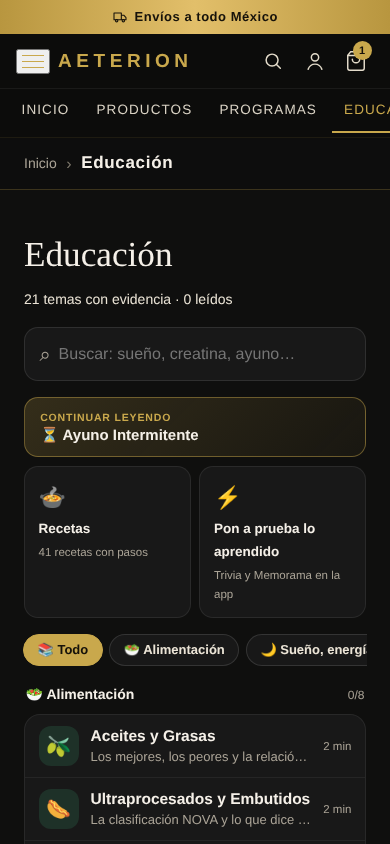
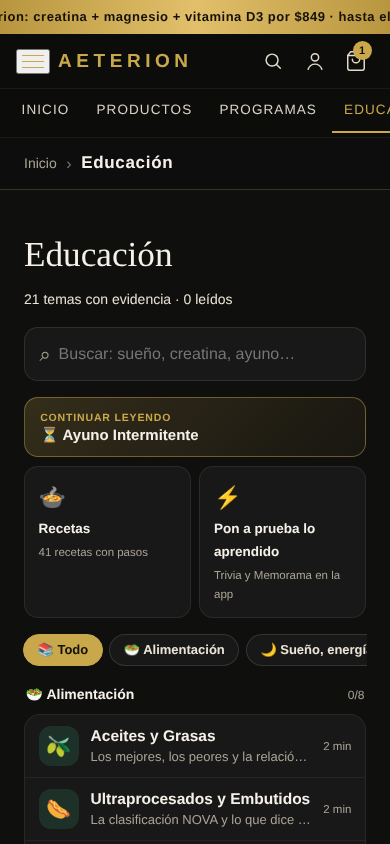
Promoción Paquete Aeterion: creatina + magnesio + vitamina D3 por $849 hasta el 12 de diciembre
Claude-Session: https://claude.ai/code/session_014hQcQ5zCXChoL5Najh2S7U

diff --git a/promo.js b/promo.js
@@ -1,0 +1,130 @@
+/* ============================================================
+   PROMOCIÓN "PAQUETE AETERION" — creatina + magnesio + vitamina D3 a precio especial.
+   La configuración viene de ajustes_publicos.promo_paquete (window._promoPaq); el servidor
+   (calcular_carrito) es quien cobra el descuento. Aquí solo se muestra y se arma el carrito.
+   Se apaga sola al pasar la fecha de fin.
+============================================================ */
+(function () {
+'use strict';
+const DEF = { activa: true, nombre: 'Paquete Aeterion', precio: 849, fin: '2026-12-12', ids: ['creatina', 'magnesio', 'vitd'] };
+const $ = (id) => document.getElementById(id);
+const fmt = (n) => '$' + Number(n || 0).toLocaleString('es-MX');
+
+function cfg() {
+  const c = (window._promoPaq && typeof window._promoPaq === 'object') ? Object.assign({}, DEF, window._promoPaq) : (window._promoPaqCargado ? null : DEF);
+  if (!c || !c.activa) return null;
+  const fin = Date.parse(String(c.fin) + 'T23:59:59-06:00');
+  if (!(fin > Date.now())) return null;
+  if (typeof PRODUCTOS === 'undefined' || !c.ids.every((id) => PRODUCTOS[id])) return null;
+  if (typeof _catalogo !== 'undefined' && c.ids.some((id) => _catalogo[id] && (_catalogo[id].activo === false || _catalogo[id].disponible === false))) return null;
+  return c;
+}
+function base(c) { return c.ids.reduce((s, id) => s + Number(PRODUCTOS[id].precio || 0), 0); }
+function ahorro(c) { return Math.max(0, base(c) - Number(c.precio)); }
+function juegos(c) {
+  if (typeof carrito === 'undefined') return 0;
+  return Math.min(...c.ids.map((id) => (carrito[id] ? carrito[id].cantidad : 0)));
+}
+// Descuento de la promo para el carrito actual (lo usa actualizarTotales)
+window.aetPromoPaqDesc = function () { const c = cfg(); return c ? juegos(c) * ahorro(c) : 0; };
+window.aetPromoPaqNombre = function () { const c = cfg(); return c ? c.nombre : ''; };
+
+window.aetComprarPaquete = function () {
+  const c = cfg(); if (!c) return;
+  const falta = Math.max(1, juegos(c) + 1);
+  c.ids.forEach((id) => {
+    if (!carrito[id]) carrito[id] = { producto: PRODUCTOS[id], cantidad: 0 };
+    carrito[id].cantidad = Math.max(carrito[id].cantidad, falta);
+  });
+  if (typeof actualizarCarritoUI === 'function') actualizarCarritoUI();
+  try { aetEvento && aetEvento('promo_paquete'); } catch (e) {}
+  if (typeof abrirCarrito === 'function') abrirCarrito();
+};
+
+function fechaFin(c) {
+  try { return new Date(String(c.fin) + 'T12:00:00').toLocaleDateString('es-MX', { day: 'numeric', month: 'long' }); } catch (e) { return c.fin; }
+}
+function tarjeta(c, clase) {
+  const b = base(c), a = ahorro(c), pct = b ? Math.round(a / b * 100) : 0;
+  return `<div class="pq ${clase || ''}" data-promo-paquete>
+    <div class="pq-img"><img src="img/hero-productos.jpg" alt="Creatina, magnesio y vitamina D3 Aeterion" loading="lazy" width="1200" height="914">${pct ? `<span class="pq-sello">−${pct}%</span>` : ''}</div>
+    <div class="pq-info">
+      <span class="pq-eye">⏳ Promoción hasta el ${fechaFin(c)}</span>
+      <h3>${c.nombre}</h3>
+      <p>Creatina 450 g + Magnesio glicinato 100 cápsulas + Vitamina D3 liposomal 50 ml. Los tres protocolos juntos.</p>
+      <div class="pq-precio"><b>${fmt(c.precio)}</b><s>${fmt(b)}</s>${a ? `<em>Ahorras ${fmt(a)}</em>` : ''}</div>
+      <button type="button" class="btn pq-btn" onclick="aetComprarPaquete()">Comprar paquete · ${fmt(c.precio)}</button>
+      <small>Precio por paquete. El envío se calcula con tu código postal.</small>
+    </div></div>`;
+}
+
+const css = document.createElement('style');
+css.textContent = `
+.pq{display:grid;grid-template-columns:minmax(0,1fr) minmax(0,1.1fr);gap:clamp(1rem,3vw,2.2rem);align-items:center;padding:clamp(1rem,2.5vw,1.6rem);border-radius:20px;border:1px solid rgba(201,168,76,.65);background:radial-gradient(circle at 12% 20%,rgba(201,168,76,.22),transparent 55%),linear-gradient(135deg,#221d10,#141412 70%);box-shadow:0 20px 50px rgba(0,0,0,.45);margin:0 0 clamp(2rem,4vw,3rem);color:#e9e2d2}
+.pq-img{position:relative;border-radius:14px;overflow:hidden;border:1px solid rgba(201,168,76,.3)}
+.pq-img img{display:block;width:100%;height:auto;max-height:340px;object-fit:cover}
+.pq-sello{position:absolute;top:12px;left:12px;background:#c9a84c;color:#16120a;font:700 15px var(--font-ui,sans-serif);padding:.35rem .75rem;border-radius:20px;letter-spacing:.03em}
+.pq-eye{display:inline-block;font:600 12.5px var(--font-ui,sans-serif);letter-spacing:.12em;text-transform:uppercase;color:#16120a;background:#e2bf6a;border-radius:20px;padding:.3rem .8rem}
+.pq h3{font-family:var(--font-display,serif);font-weight:400;font-size:clamp(2rem,4.4vw,3rem);line-height:1.05;color:#fff;margin:.7rem 0 .5rem}
+.pq p{color:#d4ccbc;font-size:15.5px;line-height:1.55;margin:0 0 1rem}
+.pq-precio{display:flex;align-items:baseline;flex-wrap:wrap;gap:.4rem .9rem;margin-bottom:1rem}
+.pq-precio b{font:700 clamp(2.2rem,5vw,3rem)/1 var(--font-ui,sans-serif);color:#e2bf6a}
+.pq-precio s{color:#8f887a;font-size:18px}
+.pq-precio em{font-style:normal;color:#2ecc71;font:600 15px var(--font-ui,sans-serif)}
+.pq-btn{display:inline-block;width:100%;max-width:380px;text-align:center;font-size:15px!important;padding:1rem 1.2rem!important;cursor:pointer}
+.pq small{display:block;margin-top:.6rem;color:#8f887a;font-size:12.5px}
+@media (max-width:760px){.pq{grid-template-columns:1fr}.pq-img img{max-height:220px}.pq-btn{max-width:none}}
+body.modo-app .pq{margin:0 0 18px;padding:14px}
+body.modo-app .pq h3{font-size:30px}
+.pq-pista{margin:8px 0 2px;padding:10px 12px;border-radius:12px;border:1px dashed rgba(201,168,76,.6);background:rgba(201,168,76,.08);font-size:13px;color:#e2d8c2;line-height:1.4}
+.pq-pista button{background:none;border:0;color:#e2bf6a;font-weight:700;text-decoration:underline;cursor:pointer;padding:0;font-size:13px}
+`;
+document.head.appendChild(css);
+
+function pintar() {
+  const c = cfg();
+  document.querySelectorAll('[data-promo-paquete]').forEach((e) => e.remove());
+  const an = document.querySelector('.wb-anuncio');
+  if (an) {
+    if (!an.dataset.orig) an.dataset.orig = an.innerHTML;
+    an.innerHTML = c ? `<span>🔥 ${c.nombre}: creatina + magnesio + vitamina D3 por ${fmt(c.precio)} · hasta el ${fechaFin(c)}</span>` : an.dataset.orig;
+    an.style.cursor = c ? 'pointer' : '';
+    an.onclick = c ? () => { location.hash = '#/productos'; } : null;
+  }
+  if (!c) { pista(); return; }
+  // Productos (web) y Tienda (app): arriba de la lista de productos
+  const prod = $('productos');
+  if (prod) {
+    const cont = prod.querySelector('.contenedor') || prod;
+    const ancla = cont.querySelector('.productos-grid, .producto-card') ;
+    const div = document.createElement('div'); div.innerHTML = tarjeta(c, 'pq-prod');
+    const nodo = div.firstElementChild;
+    if (ancla && ancla.parentNode) ancla.parentNode.insertBefore(nodo, ancla); else cont.insertBefore(nodo, cont.firstChild);
+  }
+  // Inicio de la web: justo debajo de los sellos de confianza
+  const conf = document.querySelector('#webInicio .wb-confianza');
+  if (conf) conf.insertAdjacentHTML('afterend', tarjeta(c, 'pq-ini'));
+  pista();
+}
+// Pista en el carrito: si faltan productos para el paquete
+function pista() {
+  const pie = $('carrito-footer'); if (!pie) return;
+  let p = $('pqPista');
+  const c = cfg();
+  const tiene = c && typeof carrito !== 'undefined' ? c.ids.filter((id) => carrito[id]).length : 0;
+  const mostrar = c && tiene > 0 && juegos(c) === 0;
+  if (!mostrar) { if (p) p.remove(); return; }
+  if (!p) { p = document.createElement('div'); p.id = 'pqPista'; p.className = 'pq-pista'; pie.insertBefore(p, pie.firstChild); }
+  p.innerHTML = `🔥 Agrega los 3 productos y paga solo <b>${fmt(c.precio)}</b> (ahorras ${fmt(ahorro(c))}). <button type="button" onclick="aetComprarPaquete()">Completar paquete</button>`;
+}
+window.aetPromoPaqPintar = pintar;
+window.aetPromoPaqPista = pista;
+
+// Repintar cuando cambian precios del catálogo
+if (typeof window.aetPintarCatalogo === 'function') {
+  const orig = window.aetPintarCatalogo;
+  window.aetPintarCatalogo = function () { const r = orig.apply(this, arguments); try { pintar(); } catch (e) {} return r; };
+}
+function iniciar() { try { pintar(); } catch (e) { console.warn('promo', e); } }
+if (document.readyState === 'complete') setTimeout(iniciar, 0); else window.addEventListener('load', () => setTimeout(iniciar, 0));
+})();

diff --git a/index.html b/index.html
@@ -6615,7 +6615,10 @@ async function aetAplicarCupon(silencioso) {
   const items = aetItemsCarrito(); if (!items.length) return;
   try {
     const d = await aetRpcPublico('validar_carrito_publico', { p_items: items, p_codigo: codigo });
-    if (d && d.ok) {
+    if (d && d.ok && !d.cupon && d.promo) {
+      cuponAplicado = { codigo: '', descuento: 0 };
+      if (msg) { msg.style.color = '#e2bf6a'; msg.textContent = 'Tu carrito ya tiene un mejor descuento (' + d.promo + '). Los cupones no se suman a la promoción.'; }
+    } else if (d && d.ok) {
       cuponAplicado = { codigo: d.cupon || codigo, descuento: Number(d.descuento) || 0 };
       if (msg) { msg.style.color = '#2ecc71'; msg.textContent = '✓ Cupón ' + cuponAplicado.codigo + ' aplicado: −$' + cuponAplicado.descuento.toLocaleString('es-MX'); }
     } else {
@@ -6675,15 +6678,17 @@ function aetAplicarTextos() {
   });
 }
 async function aetCargarAjustes() {
-  try { const c = JSON.parse(localStorage.getItem('aet_ajustes_cache') || 'null'); if (c) { if (c.tienda) _tienda = c.tienda; _txtRemoto = c.textos || {}; aetPintarBanner(c.banner); aetAplicarTextos(); } } catch (e) {}
+  try { const c = JSON.parse(localStorage.getItem('aet_ajustes_cache') || 'null'); if (c) { if (c.tienda) _tienda = c.tienda; _txtRemoto = c.textos || {}; if ('promo' in c) window._promoPaq = c.promo; aetPintarBanner(c.banner); aetAplicarTextos(); } } catch (e) {}
   try {
     const [aj, tx] = await Promise.all([aetGetPublico('ajustes_publicos', 'clave,valor'), aetGetPublico('textos_app', 'clave,valor,defecto')]);
     const m = {}; (aj || []).forEach(a => { m[a.clave] = a.valor; });
     const t = {}; (tx || []).forEach(a => { if (a.valor !== a.defecto) t[a.clave] = a.valor; });
     if (m.tienda) _tienda = m.tienda;
     _txtRemoto = t;
-    try { localStorage.setItem('aet_ajustes_cache', JSON.stringify({ banner: m.banner, tienda: m.tienda, textos: t })); } catch (e) {}
+    window._promoPaq = m.promo_paquete || null; window._promoPaqCargado = true;
+    try { localStorage.setItem('aet_ajustes_cache', JSON.stringify({ banner: m.banner, tienda: m.tienda, textos: t, promo: window._promoPaq })); } catch (e) {}
     aetPintarBanner(m.banner); aetAplicarTextos();
+    try { if (window.aetPromoPaqPintar) { aetPromoPaqPintar(); actualizarTotales(true); } } catch (e) {}
     if (typeof aetPintarCatalogo === 'function') aetPintarCatalogo();
   } catch (e) { /* sin conexión: se quedan los valores guardados */ }
 }
@@ -6878,9 +6883,12 @@ function actualizarTotales(sinRevalidar) {
   const subtotal = calcularSubtotal();
   const el = document.getElementById('t-subtotal');
   if (el) el.textContent = '$' + subtotal.toLocaleString('es-MX');
-  const dto = cuponAplicado.codigo ? Math.min(cuponAplicado.descuento, Math.max(0, subtotal - 10)) : 0;
+  const dtoCupon = cuponAplicado.codigo ? Math.min(cuponAplicado.descuento, Math.max(0, subtotal - 10)) : 0;
+  const dtoPromo = typeof aetPromoPaqDesc === 'function' ? aetPromoPaqDesc() : 0;
+  const dto = Math.max(dtoCupon, dtoPromo);
   const fDto = document.getElementById('t-dto-fila');
-  if (fDto) { fDto.style.display = dto > 0 ? 'flex' : 'none'; const v = document.getElementById('t-dto'); if (v) v.textContent = '−$' + dto.toLocaleString('es-MX'); }
+  if (fDto) { fDto.style.display = dto > 0 ? 'flex' : 'none'; const v = document.getElementById('t-dto'); if (v) v.textContent = '−$' + dto.toLocaleString('es-MX'); const et = fDto.querySelector('span'); if (et) et.textContent = dtoPromo > dtoCupon ? 'Promo ' + aetPromoPaqNombre() : 'Descuento'; }
+  try { if (window.aetPromoPaqPista) aetPromoPaqPista(); } catch (e) {}
   const rq = document.getElementById('cupon-quitar'); if (rq) rq.style.display = cuponAplicado.codigo ? 'inline' : 'none';
   const elTotal = document.getElementById('t-total');
   if (elTotal) elTotal.textContent = '$' + (subtotal - dto).toLocaleString('es-MX');
@@ -6931,7 +6939,9 @@ function abrirCheckout() {
     `<div class="co-fila"><span>${p.nombre} × ${cantidad}</span><span>$${(p.precio * cantidad).toLocaleString('es-MX')}</span></div>`
   ).join('');
   resumenHTML += `<div class="co-fila total"><span>Subtotal</span><span>$${subtotal.toLocaleString('es-MX')} MXN</span></div>`;
-  if (cuponAplicado.codigo && cuponAplicado.descuento > 0) resumenHTML += `<div class="co-fila" style="color:#2ecc71;"><span>Cupón ${cuponAplicado.codigo}</span><span>−$${cuponAplicado.descuento.toLocaleString('es-MX')} MXN</span></div>`;
+  const _dPromo = typeof aetPromoPaqDesc === 'function' ? aetPromoPaqDesc() : 0;
+  if (_dPromo > (cuponAplicado.codigo ? cuponAplicado.descuento : 0)) resumenHTML += `<div class="co-fila" style="color:#2ecc71;"><span>Promo ${aetPromoPaqNombre()}</span><span>−$${_dPromo.toLocaleString('es-MX')} MXN</span></div><div class="co-fila total"><span>Total productos</span><span>$${(subtotal - _dPromo).toLocaleString('es-MX')} MXN</span></div>`;
+  else if (cuponAplicado.codigo && cuponAplicado.descuento > 0) resumenHTML += `<div class="co-fila" style="color:#2ecc71;"><span>Cupón ${cuponAplicado.codigo}</span><span>−$${cuponAplicado.descuento.toLocaleString('es-MX')} MXN</span></div>`;
   resumenHTML += `<div class="co-fila" style="font-size:12px; color:var(--gris);"><span>Envío</span><span>Se calcula con tu código postal, con la paquetería más económica</span></div>`;
 
   document.getElementById('checkout-resumen').innerHTML = resumenHTML;
@@ -10478,5 +10488,6 @@ window.addEventListener('DOMContentLoaded', detectarModoApp);
 <script src="juegos.js?v=3" defer></script>
 <script src="educacion.js?v=2" defer></script>
 <script src="web.js?v=7" defer></script>
+<script src="promo.js?v=1" defer></script>
 </body>
 </html>

diff --git a/sw.js b/sw.js
@@ -5,7 +5,7 @@
      el navegador habla directo con el servidor. Safari/iPhone exige respuestas parciales (206) reales
      para reproducir video, y las descargas no deben servirse desde una copia vieja.
    - Archivos pequeños (íconos, manifest) usan la copia guardada y se actualizan en segundo plano. */
-const CACHE = 'aeterion-v84';
+const CACHE = 'aeterion-v85';
 const ARCHIVOS_BASE = ['./index.html', './manifest.json'];
 const NO_INTERCEPTAR = /\.(mp4|m4v|mov|webm|mp3|m4a|wav|ogg|xlsx|xls|docx|doc|pdf|zip)$/i;
 

diff --git a/coach/pruebas/prueba_promo_paquete.py b/coach/pruebas/prueba_promo_paquete.py
@@ -1,0 +1,75 @@
+# Promoción Paquete Aeterion ($849 los 3) en la web y en la Tienda de la app.
+import subprocess, os, sys, time, atexit, json
+from playwright.sync_api import sync_playwright
+AQUI = os.path.dirname(os.path.abspath(__file__)); RAIZ = os.path.abspath(os.path.join(AQUI, '..', '..'))
+CAP = os.path.join(AQUI, 'capturas'); os.makedirs(CAP, exist_ok=True)
+web = subprocess.Popen(['python3', '-m', 'http.server', '8864'], cwd=RAIZ, stdout=subprocess.DEVNULL, stderr=subprocess.DEVNULL); atexit.register(web.terminate)
+time.sleep(1)
+bad = []
+def chk(c, m):
+    print(('  ok ' if c else '  ✗ ') + m)
+    if not c: bad.append(m)
+PROMO = {'activa': True, 'nombre': 'Paquete Aeterion', 'precio': 849, 'fin': '2026-12-12', 'ids': ['creatina', 'magnesio', 'vitd']}
+CAT = [{'id': 'creatina', 'precio': 399, 'activo': True, 'disponible': True}, {'id': 'magnesio', 'precio': 260, 'activo': True, 'disponible': True}, {'id': 'vitd', 'precio': 399, 'activo': True, 'disponible': True}]
+def ruta(promo, enviados):
+    def f(r):
+        n = r.request.url.split('/rest/v1/')[-1].split('?')[0]
+        J = lambda o: r.fulfill(status=200, content_type='application/json', body=json.dumps(o))
+        if n == 'ajustes_publicos': return J([{'clave': 'tienda', 'valor': {'abierta': True}}] + ([{'clave': 'promo_paquete', 'valor': promo}] if promo else []))
+        if n == 'rpc/catalogo_publico': return J(CAT)
+        if n == 'rpc/validar_carrito_publico':
+            enviados.append(json.loads(r.request.post_data)); return J({'ok': True, 'subtotal': 1058, 'descuento': 209, 'cupon': None, 'promo': 'Paquete Aeterion'})
+        return J([] if r.request.method == 'GET' else {})
+    return f
+with sync_playwright() as p:
+    b = p.chromium.launch(executable_path='/opt/pw-browsers/chromium', args=['--no-sandbox'])
+    for W, H, n in [(1366, 860, 'pc'), (390, 844, 'movil')]:
+        print('== web ' + n)
+        ctx = b.new_context(service_workers='block', viewport={'width': W, 'height': H}); pg = ctx.new_page(); errs = []; env = []
+        pg.on('pageerror', lambda e: errs.append(str(e)))
+        pg.route('**/rest/v1/**', ruta(PROMO, env))
+        pg.goto('http://localhost:8864/index.html'); pg.wait_for_timeout(2200)
+        chk(pg.locator('#webInicio .pq').count() == 1 and '$849' in pg.inner_text('#webInicio .pq') and '$1,058' in pg.inner_text('#webInicio .pq'), 'inicio: tarjeta del paquete $849 (antes $1,058)')
+        chk('Paquete Aeterion' in pg.inner_text('.wb-anuncio') and '12 de diciembre' in pg.inner_text('.wb-anuncio'), 'barra de aviso con la promo y la fecha')
+        pg.locator('#webInicio .pq').scroll_into_view_if_needed(); pg.wait_for_timeout(200)
+        pg.screenshot(path=os.path.join(CAP, '107_promo_inicio_' + n + '.png'))
+        pg.click('#webInicio .pq-btn'); pg.wait_for_timeout(500)
+        q = pg.evaluate("Object.fromEntries(Object.entries(carrito).map(([k,v])=>[k,v.cantidad]))")
+        chk(q == {'creatina': 1, 'magnesio': 1, 'vitd': 1} and pg.is_visible('#carrito-panel.abierto'), 'Comprar paquete: mete los 3 al carrito y lo abre')
+        chk(pg.inner_text('#t-total') == '$849' and 'Promo Paquete Aeterion' in pg.inner_text('#t-dto-fila'), 'carrito: total $849 con la promo')
+        pg.screenshot(path=os.path.join(CAP, '108_promo_carrito_' + n + '.png'))
+        pg.evaluate("cambiarCantidad('magnesio', -1)"); pg.wait_for_timeout(300)
+        chk(pg.inner_text('#t-total') == '$798' and pg.is_visible('#pqPista'), 'si falta uno: precio normal y aviso para completar')
+        pg.click('#pqPista button'); pg.wait_for_timeout(300)
+        chk(pg.inner_text('#t-total') == '$849', 'Completar paquete vuelve a $849')
+        pg.click('#webInicio .pq-btn', force=True) if False else pg.evaluate("aetComprarPaquete()"); pg.wait_for_timeout(300)
+        chk(pg.inner_text('#t-total') == '$1,698', 'dos paquetes: $1,698')
+        pg.evaluate("cerrarCarrito(); abrirCheckout()"); pg.wait_for_timeout(300)
+        t = pg.inner_text('#checkout-resumen')
+        chk('Promo Paquete Aeterion' in t and '$1,698' in t, 'resumen de pago con la promo')
+        pg.evaluate("cerrarCheckout()")
+        pg.evaluate("location.hash='#/productos'"); pg.wait_for_timeout(500)
+        chk(pg.locator('#productos .pq').count() == 1 and pg.is_visible('#productos .pq'), 'Productos: tarjeta del paquete arriba de la lista')
+        if n == 'pc': pg.screenshot(path=os.path.join(CAP, '109_promo_productos_pc.png'))
+        chk(not errs, 'sin errores de JavaScript ' + str(errs[:3]))
+        ctx.close()
+    print('== promo vencida')
+    ctx = b.new_context(service_workers='block'); pg = ctx.new_page(); env = []
+    pg.route('**/rest/v1/**', ruta(dict(PROMO, fin='2026-11-01'), env))
+    pg.goto('http://localhost:8864/index.html'); pg.wait_for_timeout(2000)
+    chk(pg.locator('.pq').count() == 0 and 'Paquete' not in pg.inner_text('.wb-anuncio'), 'al pasar la fecha desaparece sola')
+    pg.evaluate("agregarAlCarrito('creatina');agregarAlCarrito('magnesio');agregarAlCarrito('vitd')"); pg.wait_for_timeout(300)
+    chk(pg.inner_text('#t-total') == '$1,058', 'y el carrito cobra precio normal')
+    ctx.close()
+    print('== app (Tienda)')
+    ctx = b.new_context(service_workers='block', viewport={'width': 390, 'height': 844}); pa = ctx.new_page(); ea = []; env = []
+    pa.on('pageerror', lambda e: ea.append(str(e)))
+    pa.route('**/rest/v1/**', ruta(PROMO, env))
+    pa.add_init_script("if(!sessionStorage.x){sessionStorage.x=1;localStorage.setItem('aet_inicio',JSON.stringify({estado:'hecho'}));localStorage.setItem('aet_tour_visto','1');localStorage.setItem('aet_tour','1');localStorage.setItem('aet_nombre_pedido','1')}")
+    pa.goto('http://localhost:8864/index.html?modo=app'); pa.wait_for_timeout(2400); pa.evaluate("try{aetCerrar()}catch(e){}")
+    pa.evaluate("abrirContenidoApp('productos','Tienda')"); pa.wait_for_timeout(600)
+    chk(pa.locator('#appVisorContenido .pq').count() >= 1 or pa.is_visible('#productos .pq'), 'la Tienda de la app muestra el paquete')
+    pa.screenshot(path=os.path.join(CAP, '110_promo_app.png'))
+    chk(not ea, 'app sin errores ' + str(ea[:3]))
+    b.close()
+print('\n%d fallas' % len(bad) if bad else '\nTodo bien'); sys.exit(1 if bad else 0)
